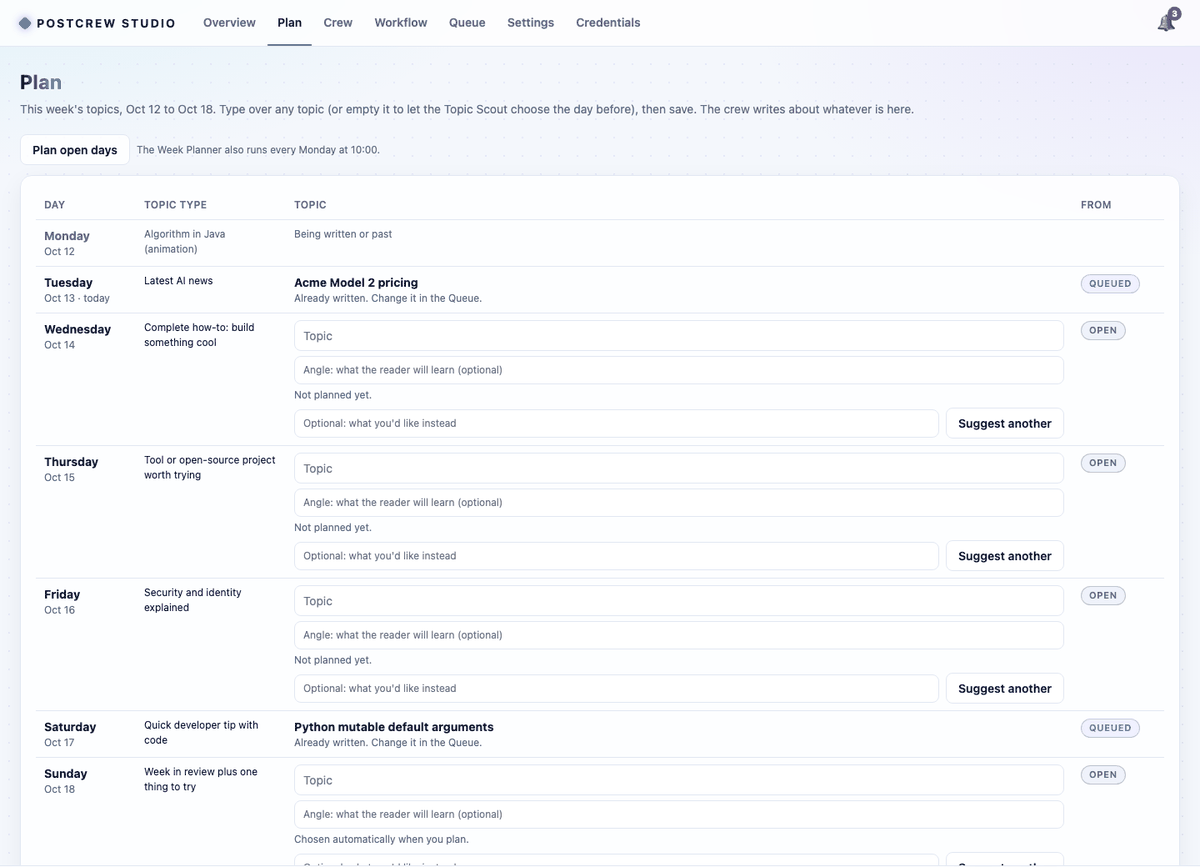
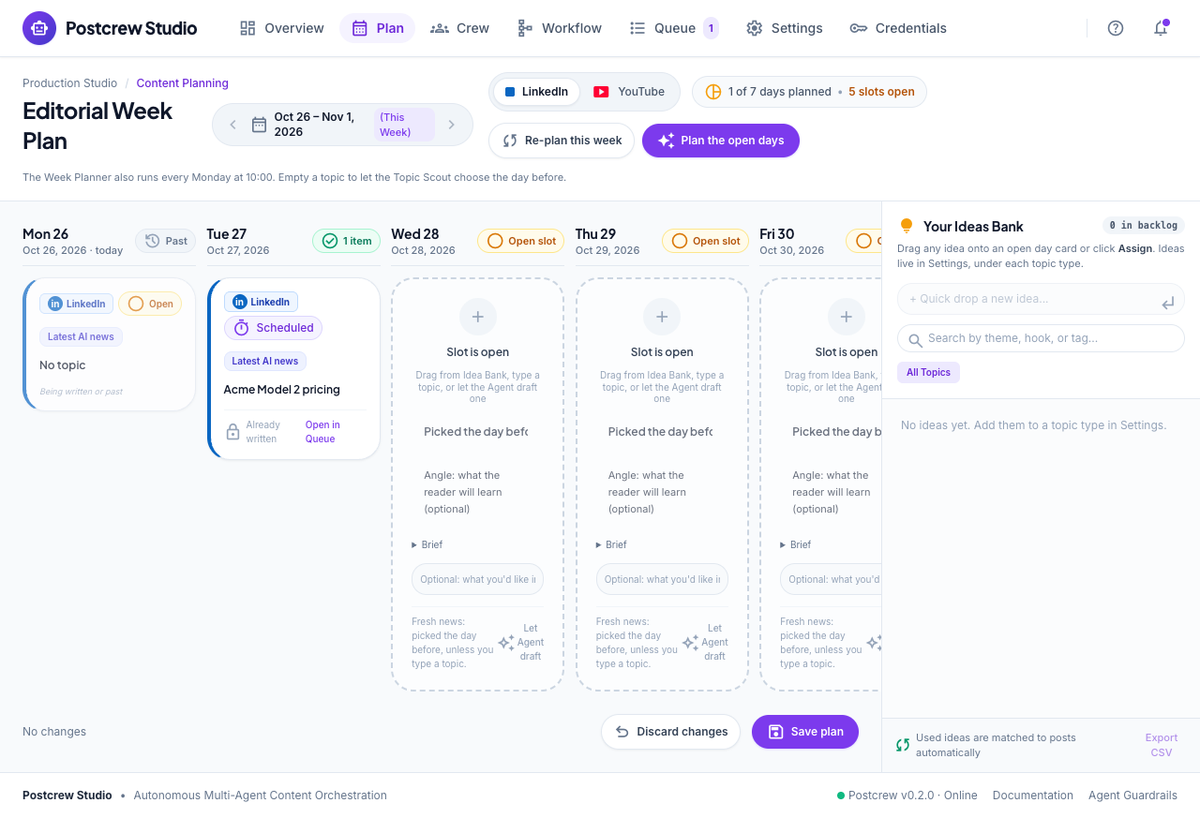
README: new Studio screenshots, including the YouTube queue and run
Regenerated the six Studio screenshots from the new design (demo workspace, no personal data) and added the YouTube queue
and a blackboard run. The new pictures use a throwaway demo workspace.

diff --git a/README.md b/README.md
@@ -125,9 +125,16 @@ The full walkthrough is in [Getting started](https://github.com/sudip1205/social
 
 | | |
 |---|---|
-| <img src="https://raw.githubusercontent.com/sudip1205/social-postcrew/main/docs/assets/screens/overview.png" alt="Overview" width="100%"> **Overview**: what's next, warnings, run the crew now, recent runs | <img src="https://raw.githubusercontent.com/sudip1205/social-postcrew/main/docs/assets/screens/queue.png" alt="Queue" width="100%"> **Queue**: LinkedIn-style previews; approve, edit, veto or publish now |
+| <img src="https://raw.githubusercontent.com/sudip1205/social-postcrew/main/docs/assets/screens/overview.png" alt="Overview" width="100%"> **Overview**: what's next, warnings, run the crew now, recent runs | <img src="https://raw.githubusercontent.com/sudip1205/social-postcrew/main/docs/assets/screens/queue.png" alt="Queue" width="100%"> **Queue**: post previews; approve, edit, veto or publish now |
 | <img src="https://raw.githubusercontent.com/sudip1205/social-postcrew/main/docs/assets/screens/team.png" alt="Crew" width="100%"> **Crew**: every agent by team, the roster, lessons and long-term memory | <img src="https://raw.githubusercontent.com/sudip1205/social-postcrew/main/docs/assets/screens/plan.png" alt="Plan" width="100%"> **Plan**: this week's topics; edit any day or ask for another |
 | <img src="https://raw.githubusercontent.com/sudip1205/social-postcrew/main/docs/assets/screens/settings.png" alt="Settings" width="100%"> **Settings**: topics, schedule, about you, models and limits | <img src="https://raw.githubusercontent.com/sudip1205/social-postcrew/main/docs/assets/screens/credentials.png" alt="Credentials" width="100%"> **Credentials**: LinkedIn, Claude Code, Gmail, Telegram |
+
+
+YouTube has its own tab set: the app switcher in the header flips the Queue, Plan, Workflow and Settings between LinkedIn and YouTube.
+
+| | |
+|---|---|
+| <img src="https://raw.githubusercontent.com/sudip1205/social-postcrew/main/docs/assets/screens/youtube-queue.png" alt="YouTube queue" width="100%"> **YouTube queue**: the finished video with its voice, scene timeline and Editor score; use your own video, voice or script | <img src="https://raw.githubusercontent.com/sudip1205/social-postcrew/main/docs/assets/screens/youtube-workflow.png" alt="YouTube run" width="100%"> **YouTube run**: Voice first, then the Blackboard Producer draws the video to it |
 
 Every tab, panel and button is explained in the [Studio guide](https://github.com/sudip1205/social-postcrew/blob/main/docs/studio-guide.md).
 
